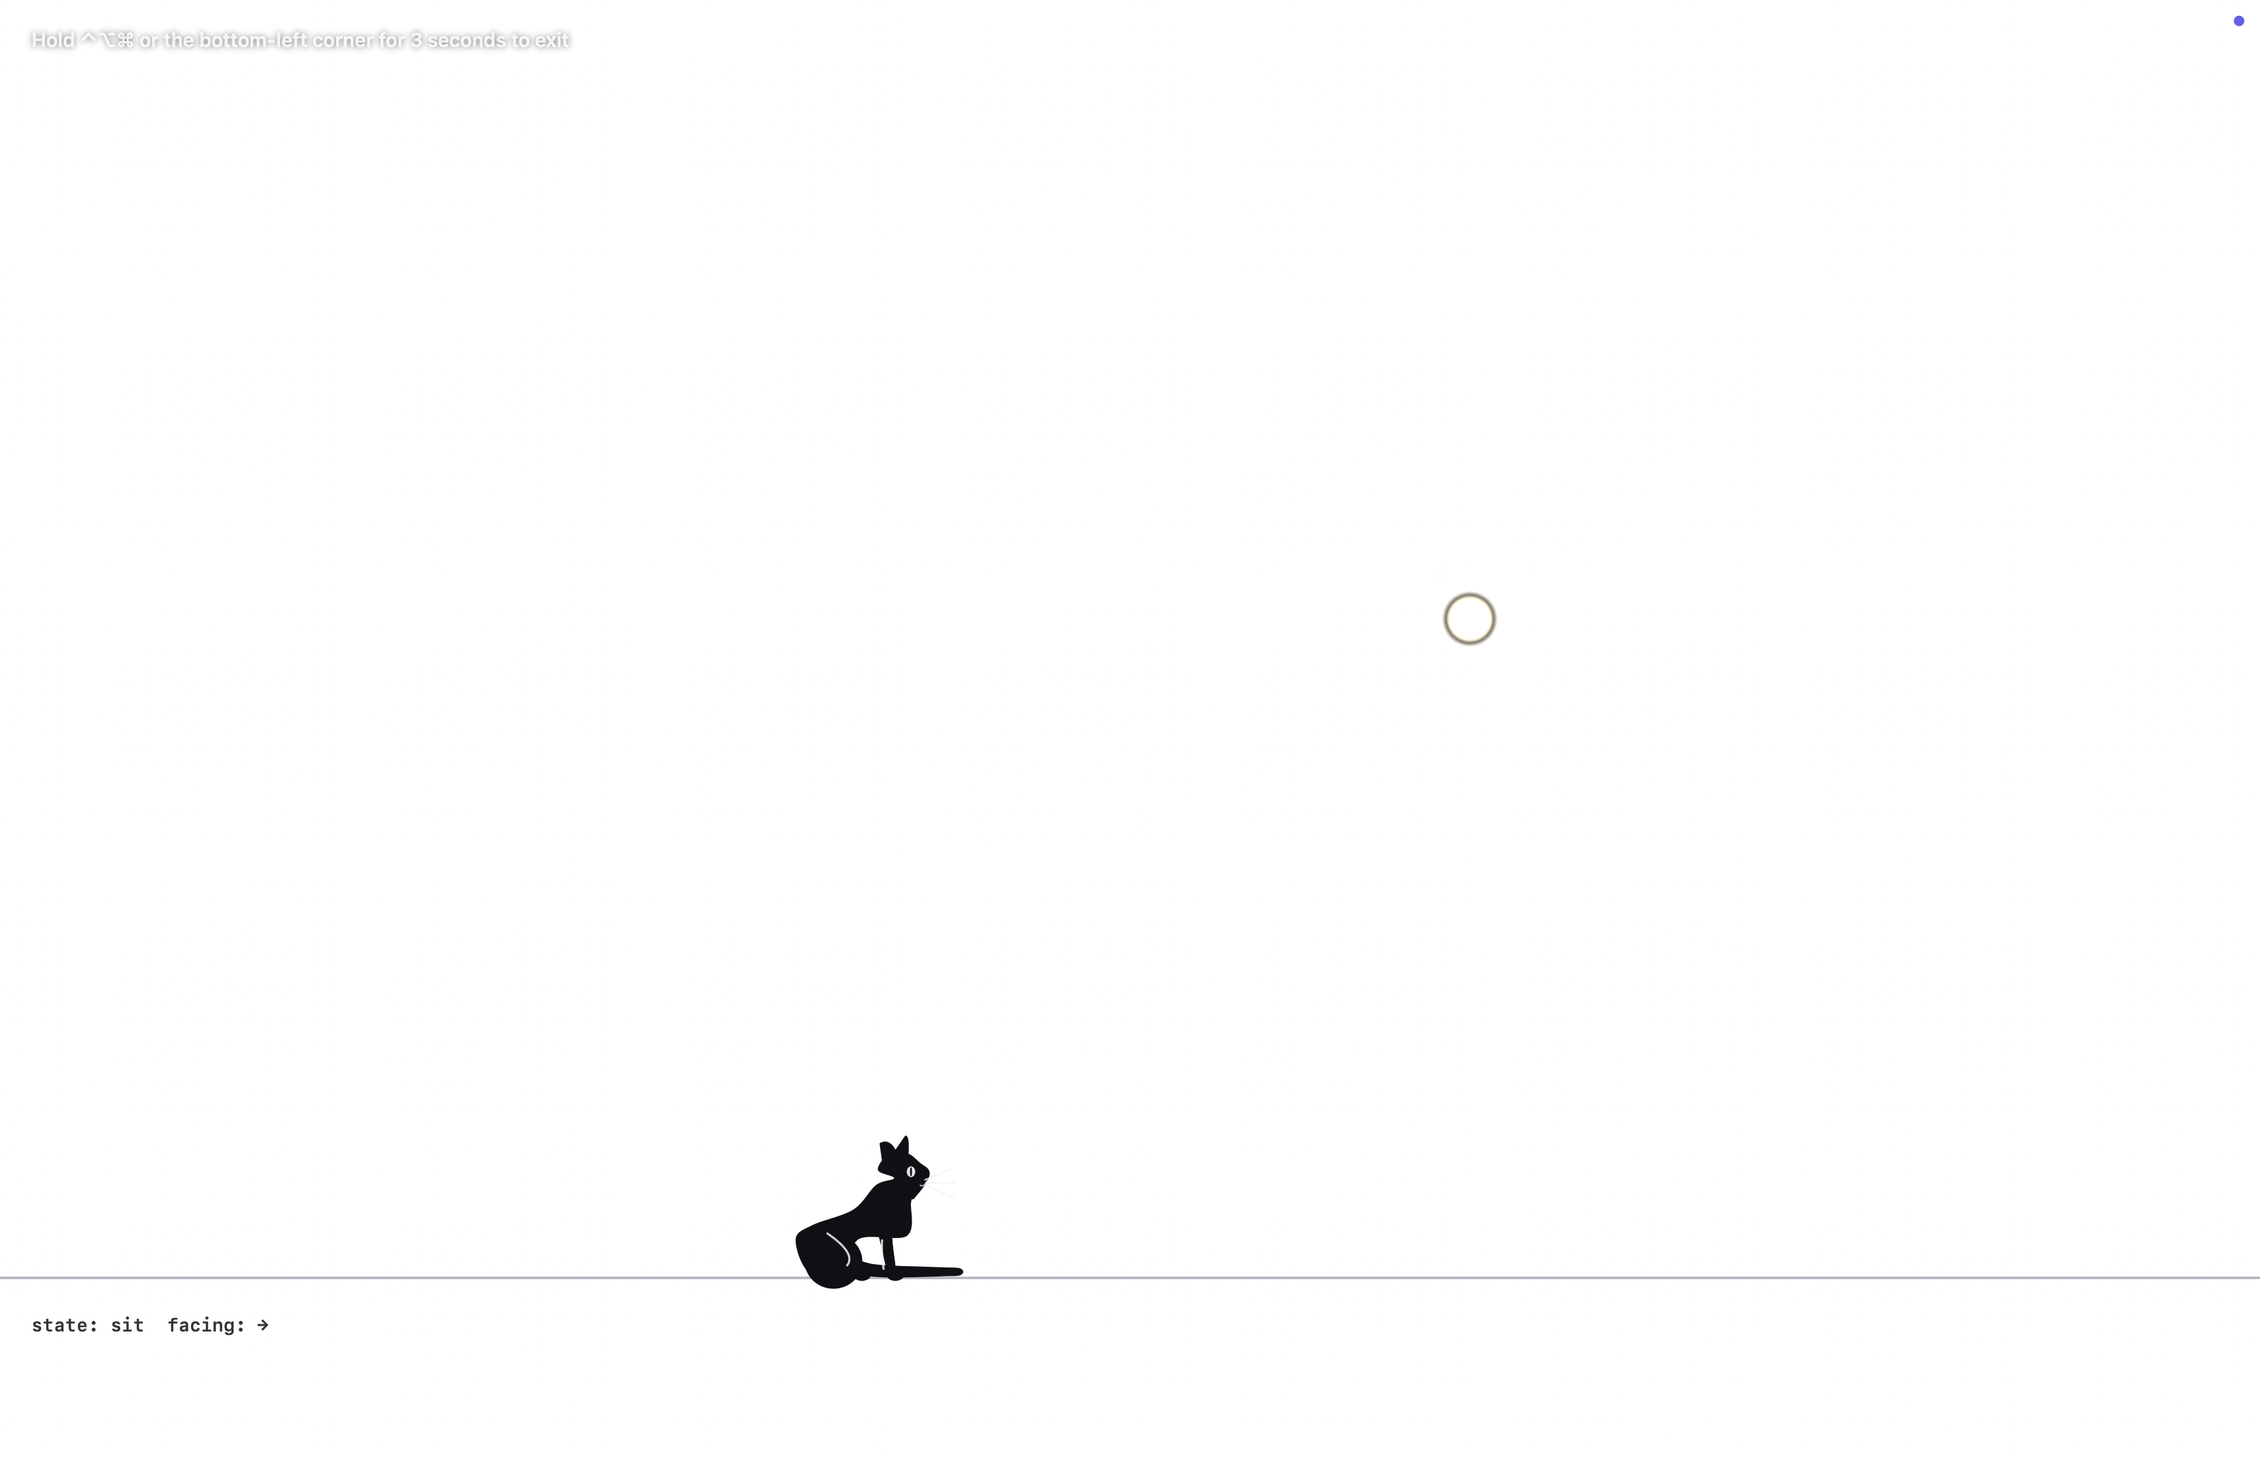
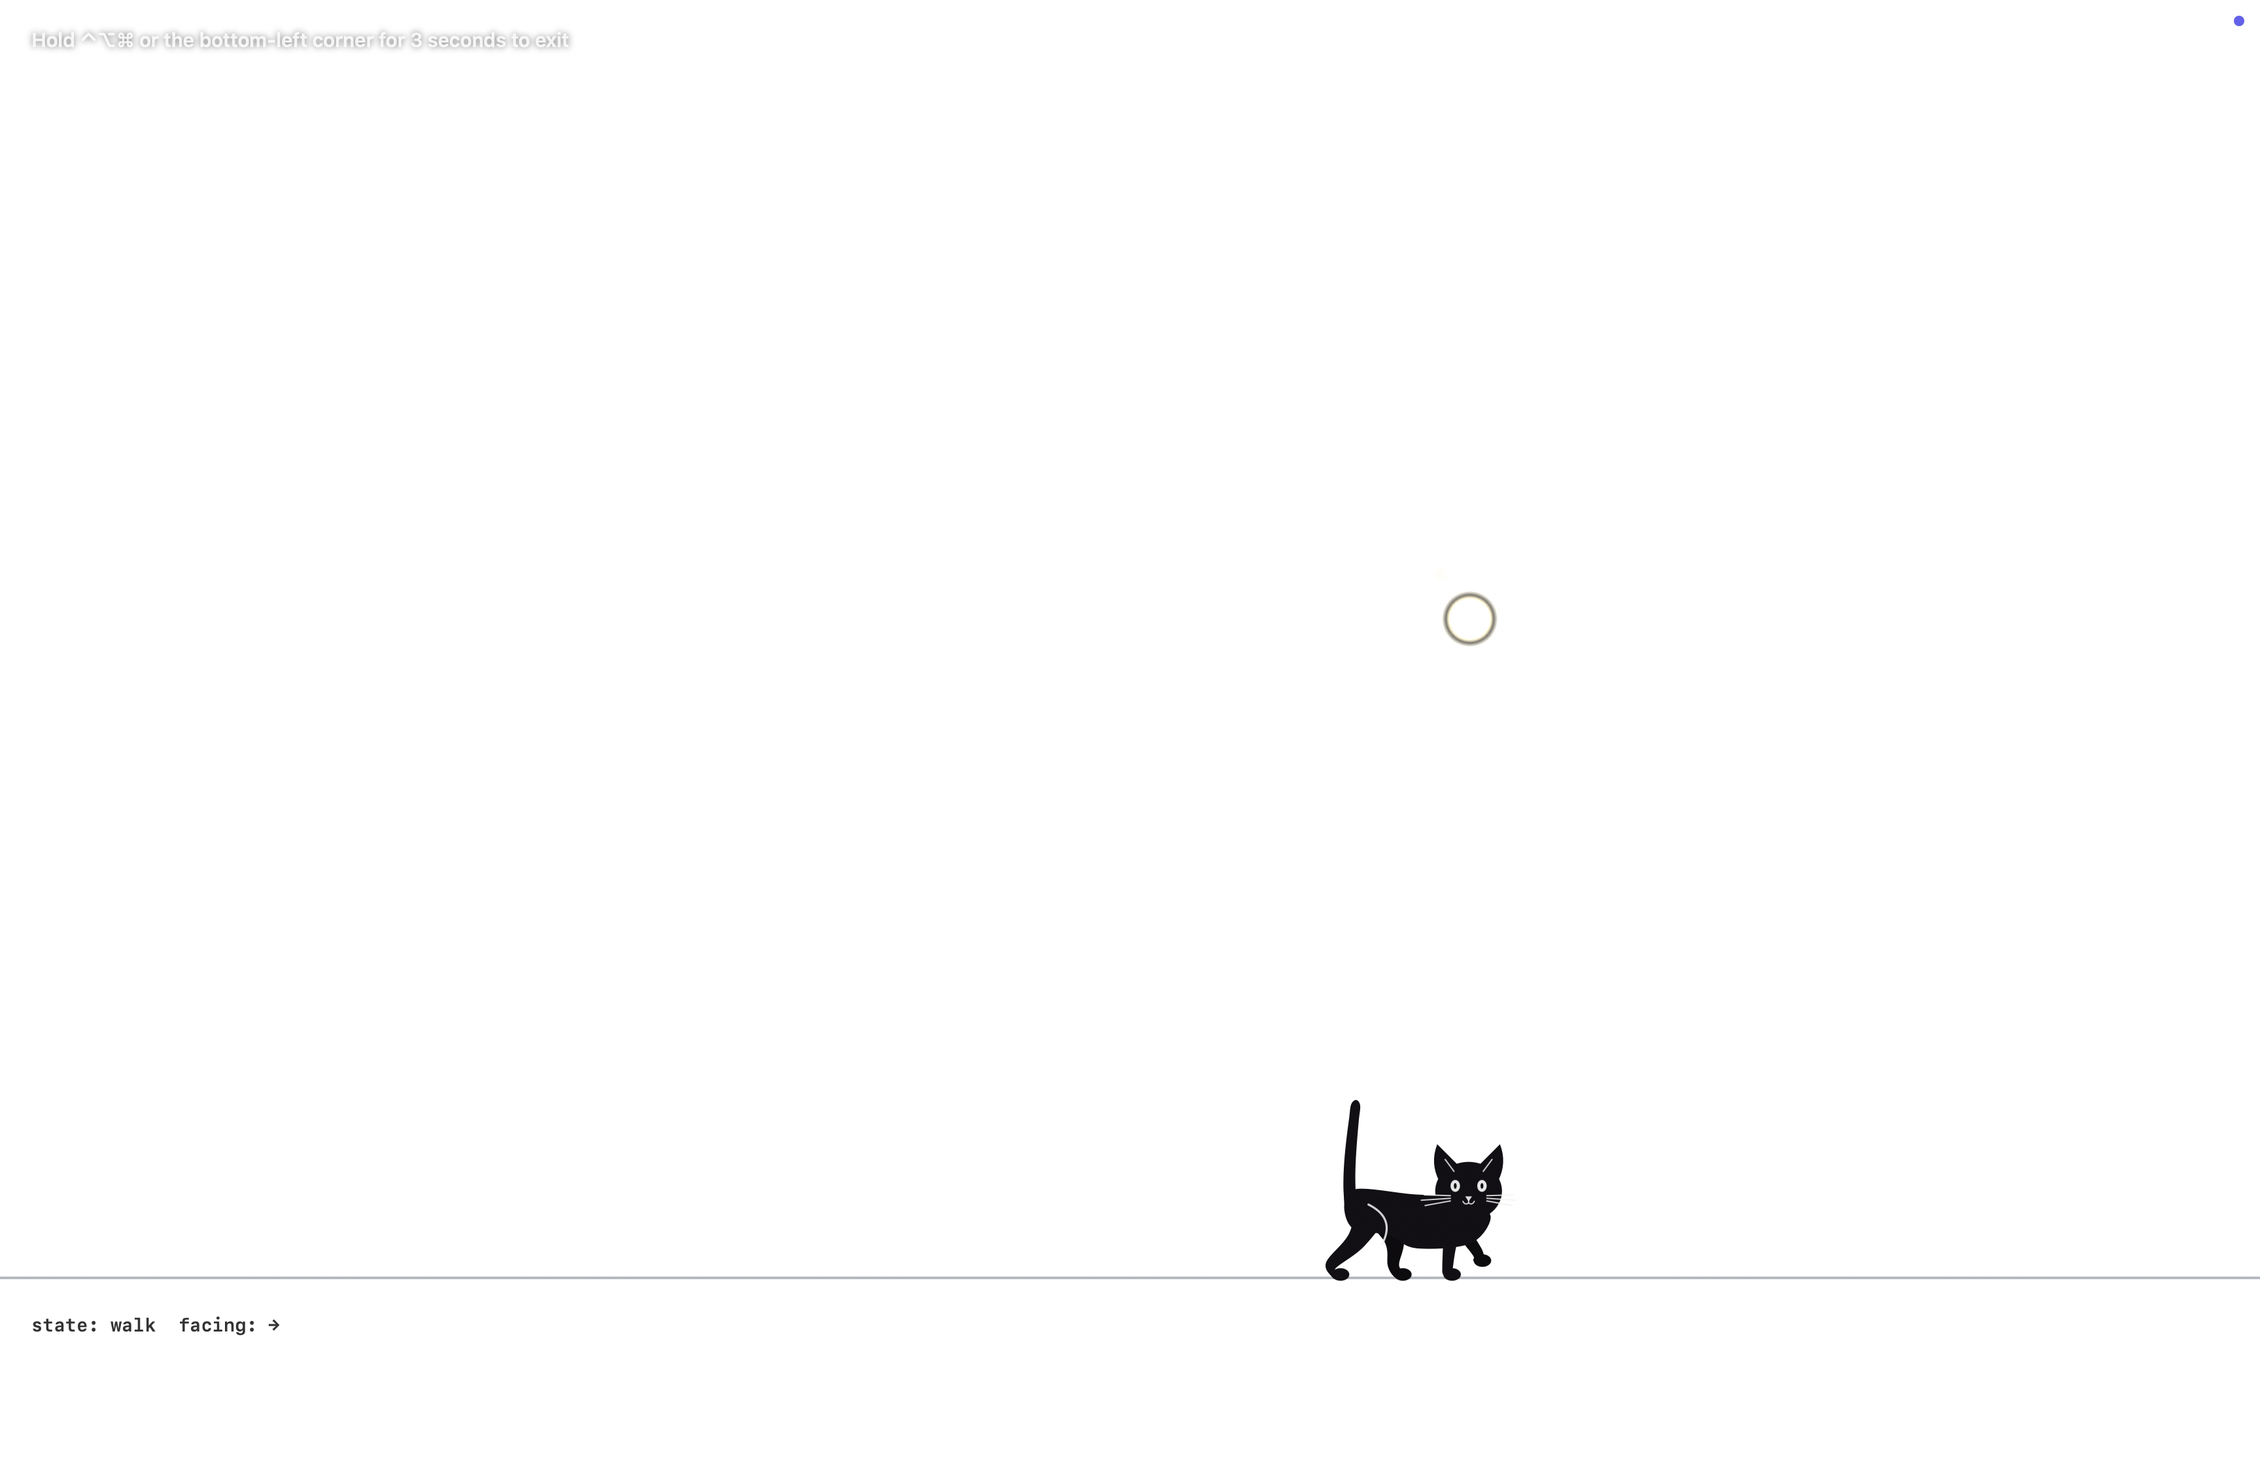
KiddyCat silhouette: front-facing reference head + A/B-verified proportions
Recovered the user's reference sheet from disk and compared directly via
side-by-side composites — which exposed the real gap: the reference cats
walk in PROFILE but turn the FACE to the viewer. Rebuilt accordingly:

- Head is a front-facing group: wide round skull on a thick neck, two
  symmetric ears (canted, convex outer edge, inner-ear accent lines, near
  ear flicks), two round light eyes with round pupils, tiny triangle nose,
  omega mouth, whiskers fanning BOTH sides
- Body outline ends in a neck stub under the skull; flat color makes the
  union seamless
- Proportions matched to the reference via A/B: longer body, head riding
  atop the shoulders (not sunk into the chest), sit as the reference's
  tall triangle with a wider stable base, wrapped tail tip hooks up beside
  the paws, tail carried high with a soft S sway in walk
- Fixed decl-order build error (sit fold in rumpX)

A/B composites (reference crop vs render): ab_walk.png, ab_sit.png.

Changed region(s): [[0.5938, 0.7722, 0.6875, 0.8957], [0.3438, 0.7722, 0.4375, 0.8957], [0.0625, 0.8957, 0.125, 0.9266]]

diff --git a/Sources/kiddyproof/KiddyCat.swift b/Sources/kiddyproof/KiddyCat.swift
@@ -231,7 +231,7 @@ final class KiddyCat {
     private func tailMood() -> (liftBias: CGFloat, sway: CGFloat) {
         switch state {
         case .stalk, .pounceWindup: return (-0.25, 2.6)   // low, twitchy
-        case .walk, .trot: return (0.75, 1.0)             // raised, confident
+        case .walk, .trot: return (0.74, 0.9)             // raised, soft S
         case .startle: return (1.1, 0)                    // bottle-brush up
         case .pounceAir: return (0.2, 0)                  // streams back in flight
         case .sit, .groom, .lie: return (0.22, 0.35)      // wrapped low, tip curled
@@ -276,9 +276,9 @@ final class KiddyCat {
                 let n = tail.count
                 for i in 1..<n {
                     let t = CGFloat(i) / CGFloat(n - 1)
-                    let tx = pos.x + facing * size * (-0.56 + 1.02 * t)
+                    let tx = pos.x + facing * size * (-0.56 + 0.92 * t)
                     let drop = 0.42 * (1 - t) * (1 - t)
-                    let curl = t > 0.82 ? (t - 0.82) * 0.9 : 0
+                    let curl = t > 0.78 ? (t - 0.78) * 1.6 : 0
                     let ty = groundY + size * (0.09 + drop + curl)
                     let k = settle * min(1, dt * 5)
                     tail[i].x += (tx - tail[i].x) * k
@@ -545,7 +545,7 @@ final class KiddyCat {
         // Anchor geometry.
         let stretch = pose.bodyStretch
         let shoulderX: CGFloat = 0.52 + stretch * 0.25 - pose.sitFold * 0.3
-        let rumpX: CGFloat = -(0.62 + stretch * 0.2)
+        let rumpX: CGFloat = -(0.70 + stretch * 0.2 - pose.sitFold * 0.10)
         let shoulderY = pose.shoulderHeight
         let rumpY = pose.rumpHeight
         let headX = pose.headForward + stretch * 0.2
@@ -604,7 +604,7 @@ final class KiddyCat {
                     (footX - 0.005, footY + 0.14),
                     (footX, footY + 0.05),
                 ])
-                path = Self.ribbon(pts, [s * 0.25, s * 0.165, s * 0.125, s * 0.12])
+                path = Self.ribbon(pts, [s * 0.27, s * 0.18, s * 0.14, s * 0.13])
             } else {
                 // Hip → knee (forward) → hock (heel points BACK — the cat cue) → paw.
                 let fold = 1 - sit
@@ -614,7 +614,7 @@ final class KiddyCat {
                     (footX - 0.07 * fold, footY + 0.17),
                     (footX, footY + 0.05),
                 ])
-                path = Self.ribbon(pts, [s * 0.38, s * 0.24, s * 0.135, s * 0.125])
+                path = Self.ribbon(pts, [s * 0.40, s * 0.26, s * 0.15, s * 0.14])
             }
             ctx.addPath(path)
             ctx.fillPath()
@@ -633,28 +633,23 @@ final class KiddyCat {
             let n = pts.count
             let widths = (0..<n).map { i -> CGFloat in
                 let t = CGFloat(i) / CGFloat(n - 1)
-                return s * (0.175 - 0.075 * t * t)
+                return s * (0.165 - 0.045 * t * t)
             }
             ctx.setFillColor(bodyColor.cgColor)
             ctx.addPath(Self.ribbon(pts, widths))
             ctx.fillPath()
         }
 
-        // --- Body + head: ONE closed smooth outline. The head section is a real
-        // cat profile (crown → brow → nose STEP → chin → jaw), not a circle —
-        // the muzzle step is what the reference silhouettes live on.
+        // --- Body: one closed smooth outline ending in a thick neck. The head is
+        // a separate FRONT-FACING group (the reference cats walk in profile but
+        // turn the face to the viewer — big round skull, symmetric ears, both
+        // eyes). Flat color makes the union seamless.
         let hp = headPitch * (state == .lie ? 0.5 : 1)
-        let R: CGFloat = 0.36
-        let hcx = headX - 0.09, hcy = headY - 0.13 + hp * 0.22
-        // Head-relative point, gently rotated by head pitch.
-        let ca = cos(hp * 0.5), sa = sin(hp * 0.5)
-        func H(_ dx: CGFloat, _ dy: CGFloat) -> (CGFloat, CGFloat) {
-            (hcx + dx * ca - dy * sa, hcy + dx * sa + dy * ca)
-        }
+        let hcx = headX - 0.22, hcy = headY - 0.08 + hp * 0.14
         let spineTopY = (shoulderY + rumpY) / 2 + 0.17 + pose.backArch
         let bellyY = shoulderY - 0.47 + pose.crouch * 0.22
         var outline: [(CGFloat, CGFloat)] = []
-        outline.append(H(R * 0.15, -R * 0.94))                              // under jaw
+        outline.append((hcx + 0.28, hcy - 0.30))                            // under head, front
         outline.append((shoulderX + 0.18 + sit * 0.11, shoulderY - 0.40 - sit * 0.02)) // chest
         outline.append(((shoulderX + rumpX) / 2 + 0.06, bellyY))            // belly
         outline.append((rumpX + 0.30, rumpY - 0.38 - sit * 0.10))           // groin / thigh front
@@ -663,36 +658,45 @@ final class KiddyCat {
         outline.append((rumpX - 0.12, rumpY + 0.21 + pose.backArch * 0.5))  // rump top
         outline.append(((rumpX + shoulderX) / 2, spineTopY))                // spine crest
         outline.append((shoulderX - 0.02 - sit * 0.10, shoulderY + 0.19 + sit * 0.06 + pose.backArch * 0.3)) // withers
-        outline.append((shoulderX + 0.20 - sit * 0.08, shoulderY + 0.08 + sit * 0.26)) // neck top
-        outline.append(H(-R * 0.66, R * 0.55))                              // crown back
-        outline.append(H(-R * 0.12, R * 0.98))                              // crown top
-        outline.append(H(R * 0.55, R * 0.82))                               // brow
-        outline.append(H(R * 0.90, R * 0.34))                               // stop (brow → muzzle)
-        outline.append(H(R * 1.12, R * 0.02))                               // nose tip
-        outline.append(H(R * 1.05, -R * 0.26))                              // under nose
-        outline.append(H(R * 0.72, -R * 0.56))                              // chin
-        outline.append(H(R * 0.30, -R * 0.84))                              // jaw
+        outline.append((hcx - 0.28, hcy - 0.26))                            // under head, back
         ctx.setFillColor(bodyColor.cgColor)
         ctx.addPath(Self.catmull(mapped(outline), closed: true))
         ctx.fillPath()
 
-        // Ears: big, slightly canted outward, convex outer edge (reference cue).
-        let flick = earFlick * 0.1
-        let earLen = R * (0.60 + 0.36 * pose.earPerk)
-        func ear(baseA: CGFloat, tipA: CGFloat, tipLen: CGFloat) {
+        // Thick neck joining shoulders to skull (fully covered by both).
+        ctx.setStrokeColor(bodyColor.cgColor)
+        ctx.setLineCap(.round)
+        ctx.setLineWidth(s * 0.62)
+        ctx.beginPath()
+        ctx.move(to: P(shoulderX - 0.02, shoulderY - 0.10))
+        ctx.addLine(to: P(hcx, hcy - 0.12))
+        ctx.strokePath()
+
+        // Head group: wide round skull with soft cheeks.
+        let flick = earFlick * 0.06
+        let hw: CGFloat = 0.44, hh: CGFloat = 0.385  // skull radii
+        let headC = P(hcx, hcy)
+        // Ears first (bases swallowed by the skull): symmetric, canted outward.
+        func frontEar(_ side: CGFloat, cant: CGFloat) {
             let e = CGMutablePath()
-            let a1 = baseA - 0.36, a2 = baseA + 0.36
-            e.move(to: P(hcx + cos(a1) * R * 0.90, hcy + sin(a1) * R * 0.90))
-            let tip = (x: hcx + cos(tipA) * (R * 0.72 + tipLen), y: hcy + sin(tipA) * (R * 0.72 + tipLen))
-            e.addQuadCurve(to: P(tip.x, tip.y),
-                           control: P(hcx + cos(a1 + 0.14) * (R + tipLen * 0.75), hcy + sin(a1 + 0.14) * (R + tipLen * 0.75)))
-            e.addLine(to: P(hcx + cos(a2) * R * 0.90, hcy + sin(a2) * R * 0.90))
+            let baseIn  = (hcx + side * hw * 0.22, hcy + hh * 0.78)
+            let baseOut = (hcx + side * hw * 0.88, hcy + hh * 0.34)
+            let tip     = (hcx + side * hw * (0.94 + cant), hcy + hh * (1.44 + pose.earPerk * 0.22))
+            e.move(to: P(baseIn.0, baseIn.1))
+            e.addLine(to: P(tip.0, tip.1))
+            // Convex outer edge.
+            e.addQuadCurve(to: P(baseOut.0, baseOut.1),
+                           control: P(hcx + side * hw * 1.16, hcy + hh * 0.96))
             e.closeSubpath()
             ctx.addPath(e)
             ctx.fillPath()
         }
-        ear(baseA: 1.70 + hp * 0.5, tipA: 1.78 + hp * 0.5 + flick, tipLen: earLen * 0.88) // rear ear
-        ear(baseA: 1.26 + hp * 0.5, tipA: 1.14 + hp * 0.5, tipLen: earLen)         // front ear
+        ctx.setFillColor(bodyColor.cgColor)
+        frontEar(1, cant: flick)          // near-side ear (flicks)
+        frontEar(-1, cant: 0)             // far-side ear
+        // Skull: slightly wider than tall, cheeks full.
+        ctx.fillEllipse(in: CGRect(x: headC.x - hw * s, y: headC.y - hh * s,
+                                   width: hw * 2 * s, height: hh * 2 * s))
 
         // Sitting: haunch mass over the folded rear, blended into the outline.
         if sit > 0.15 {
@@ -729,37 +733,63 @@ final class KiddyCat {
             ctx.strokePath()
         }
 
-        // --- Whiskers: three thin strokes fanning from the muzzle.
-        ctx.setLineWidth(s * 0.018)
-        for (dy, len, tilt) in [(CGFloat(-0.06), CGFloat(0.38), CGFloat(0.09)),
-                                (CGFloat(-0.12), CGFloat(0.42), CGFloat(0.00)),
-                                (CGFloat(-0.18), CGFloat(0.36), CGFloat(-0.09))] {
-            let base = H(R * 0.88, R * (dy * 2 - 0.18))
-            let tip  = (base.0 + len * ca - tilt * sa, base.1 + len * sa + tilt * ca)
+        // --- Face (front-facing, per the reference): two eyes, nose, mouth,
+        // whiskers both sides. Features shift a touch with head pitch.
+        let fy = hp * 0.05
+        // Whiskers.
+        ctx.setStrokeColor(accent.withAlphaComponent(0.85).cgColor)
+        ctx.setLineWidth(s * 0.017)
+        for side: CGFloat in [-1, 1] {
+            for (dy, len) in [(CGFloat(0.02), CGFloat(0.34)), (CGFloat(-0.05), CGFloat(0.38)), (CGFloat(-0.12), CGFloat(0.33))] {
+                ctx.beginPath()
+                ctx.move(to: P(hcx + side * hw * 0.55, hcy + fy - 0.10 + dy * 0.5))
+                ctx.addLine(to: P(hcx + side * (hw * 0.55 + len), hcy + fy - 0.10 + dy))
+                ctx.strokePath()
+            }
+        }
+        // Inner-ear lines.
+        for side: CGFloat in [-1, 1] {
             ctx.beginPath()
-            ctx.move(to: P(base.0, base.1))
-            ctx.addLine(to: P(tip.0, tip.1 + dy))
+            ctx.move(to: P(hcx + side * hw * 0.44, hcy + hh * 0.68))
+            ctx.addLine(to: P(hcx + side * hw * 0.70, hcy + hh * 1.08))
             ctx.strokePath()
         }
-
-        // --- Eye (with blink): light almond with a dark slit, per the reference.
+        // Eyes (blink scales height): light almonds with body-colored slits.
         let eyeOpen = 1 - blinkPhase
         if eyeOpen > 0.08 {
-            let e = P(hcx + R * 0.42, hcy + R * 0.22 + hp * 0.03)
-            let ew = s * 0.055, eh = s * 0.070 * eyeOpen
-            ctx.setFillColor(accent.withAlphaComponent(0.95).cgColor)
-            ctx.fillEllipse(in: CGRect(x: e.x - ew, y: e.y - eh, width: ew * 2, height: eh * 2))
-            ctx.setFillColor(bodyColor.cgColor)
-            ctx.fillEllipse(in: CGRect(x: e.x - ew * 0.24, y: e.y - eh * 0.85, width: ew * 0.48, height: eh * 1.7))
+            let ew = s * 0.062, eh = s * 0.078 * eyeOpen
+            for side: CGFloat in [-1, 1] {
+                let e = P(hcx + side * hw * 0.40, hcy + fy + hh * 0.10)
+                ctx.setFillColor(accent.withAlphaComponent(0.95).cgColor)
+                ctx.fillEllipse(in: CGRect(x: e.x - ew, y: e.y - eh, width: ew * 2, height: eh * 2))
+                ctx.setFillColor(bodyColor.cgColor)
+                ctx.fillEllipse(in: CGRect(x: e.x - ew * 0.30, y: e.y - eh * 0.48, width: ew * 0.60, height: eh * 0.96))
+            }
         }
-        // Mouth: a small accent curve under the nose (reference face detail).
-        ctx.setStrokeColor(accent.withAlphaComponent(0.8).cgColor)
+        // Nose: a tiny light triangle, point down.
+        ctx.setFillColor(accent.withAlphaComponent(0.9).cgColor)
+        let np = P(hcx, hcy + fy - hh * 0.34)
+        let nw = s * 0.045
+        let nose = CGMutablePath()
+        nose.move(to: CGPoint(x: np.x - nw, y: np.y + nw * 0.7))
+        nose.addLine(to: CGPoint(x: np.x + nw, y: np.y + nw * 0.7))
+        nose.addLine(to: CGPoint(x: np.x, y: np.y - nw * 0.8))
+        nose.closeSubpath()
+        ctx.addPath(nose)
+        ctx.fillPath()
+        // Mouth: the little ω under the nose.
+        ctx.setStrokeColor(accent.withAlphaComponent(0.85).cgColor)
         ctx.setLineWidth(s * 0.016)
-        let m0 = H(R * 0.96, -R * 0.34)
-        let m1 = H(R * 0.66, -R * 0.44)
+        let mc = P(hcx, hcy + fy - hh * 0.52)
         ctx.beginPath()
-        ctx.move(to: P(m0.0, m0.1))
-        ctx.addQuadCurve(to: P(m1.0, m1.1), control: P((m0.0 + m1.0) / 2, m1.1 - 0.03))
+        ctx.move(to: CGPoint(x: mc.x, y: mc.y + s * 0.05))
+        ctx.addLine(to: CGPoint(x: mc.x, y: mc.y + s * 0.015))
+        ctx.move(to: CGPoint(x: mc.x, y: mc.y + s * 0.015))
+        ctx.addQuadCurve(to: CGPoint(x: mc.x - s * 0.075, y: mc.y + s * 0.035),
+                         control: CGPoint(x: mc.x - s * 0.045, y: mc.y - s * 0.02))
+        ctx.move(to: CGPoint(x: mc.x, y: mc.y + s * 0.015))
+        ctx.addQuadCurve(to: CGPoint(x: mc.x + s * 0.075, y: mc.y + s * 0.035),
+                         control: CGPoint(x: mc.x + s * 0.045, y: mc.y - s * 0.02))
         ctx.strokePath()
         ctx.setAlpha(1)
     }
